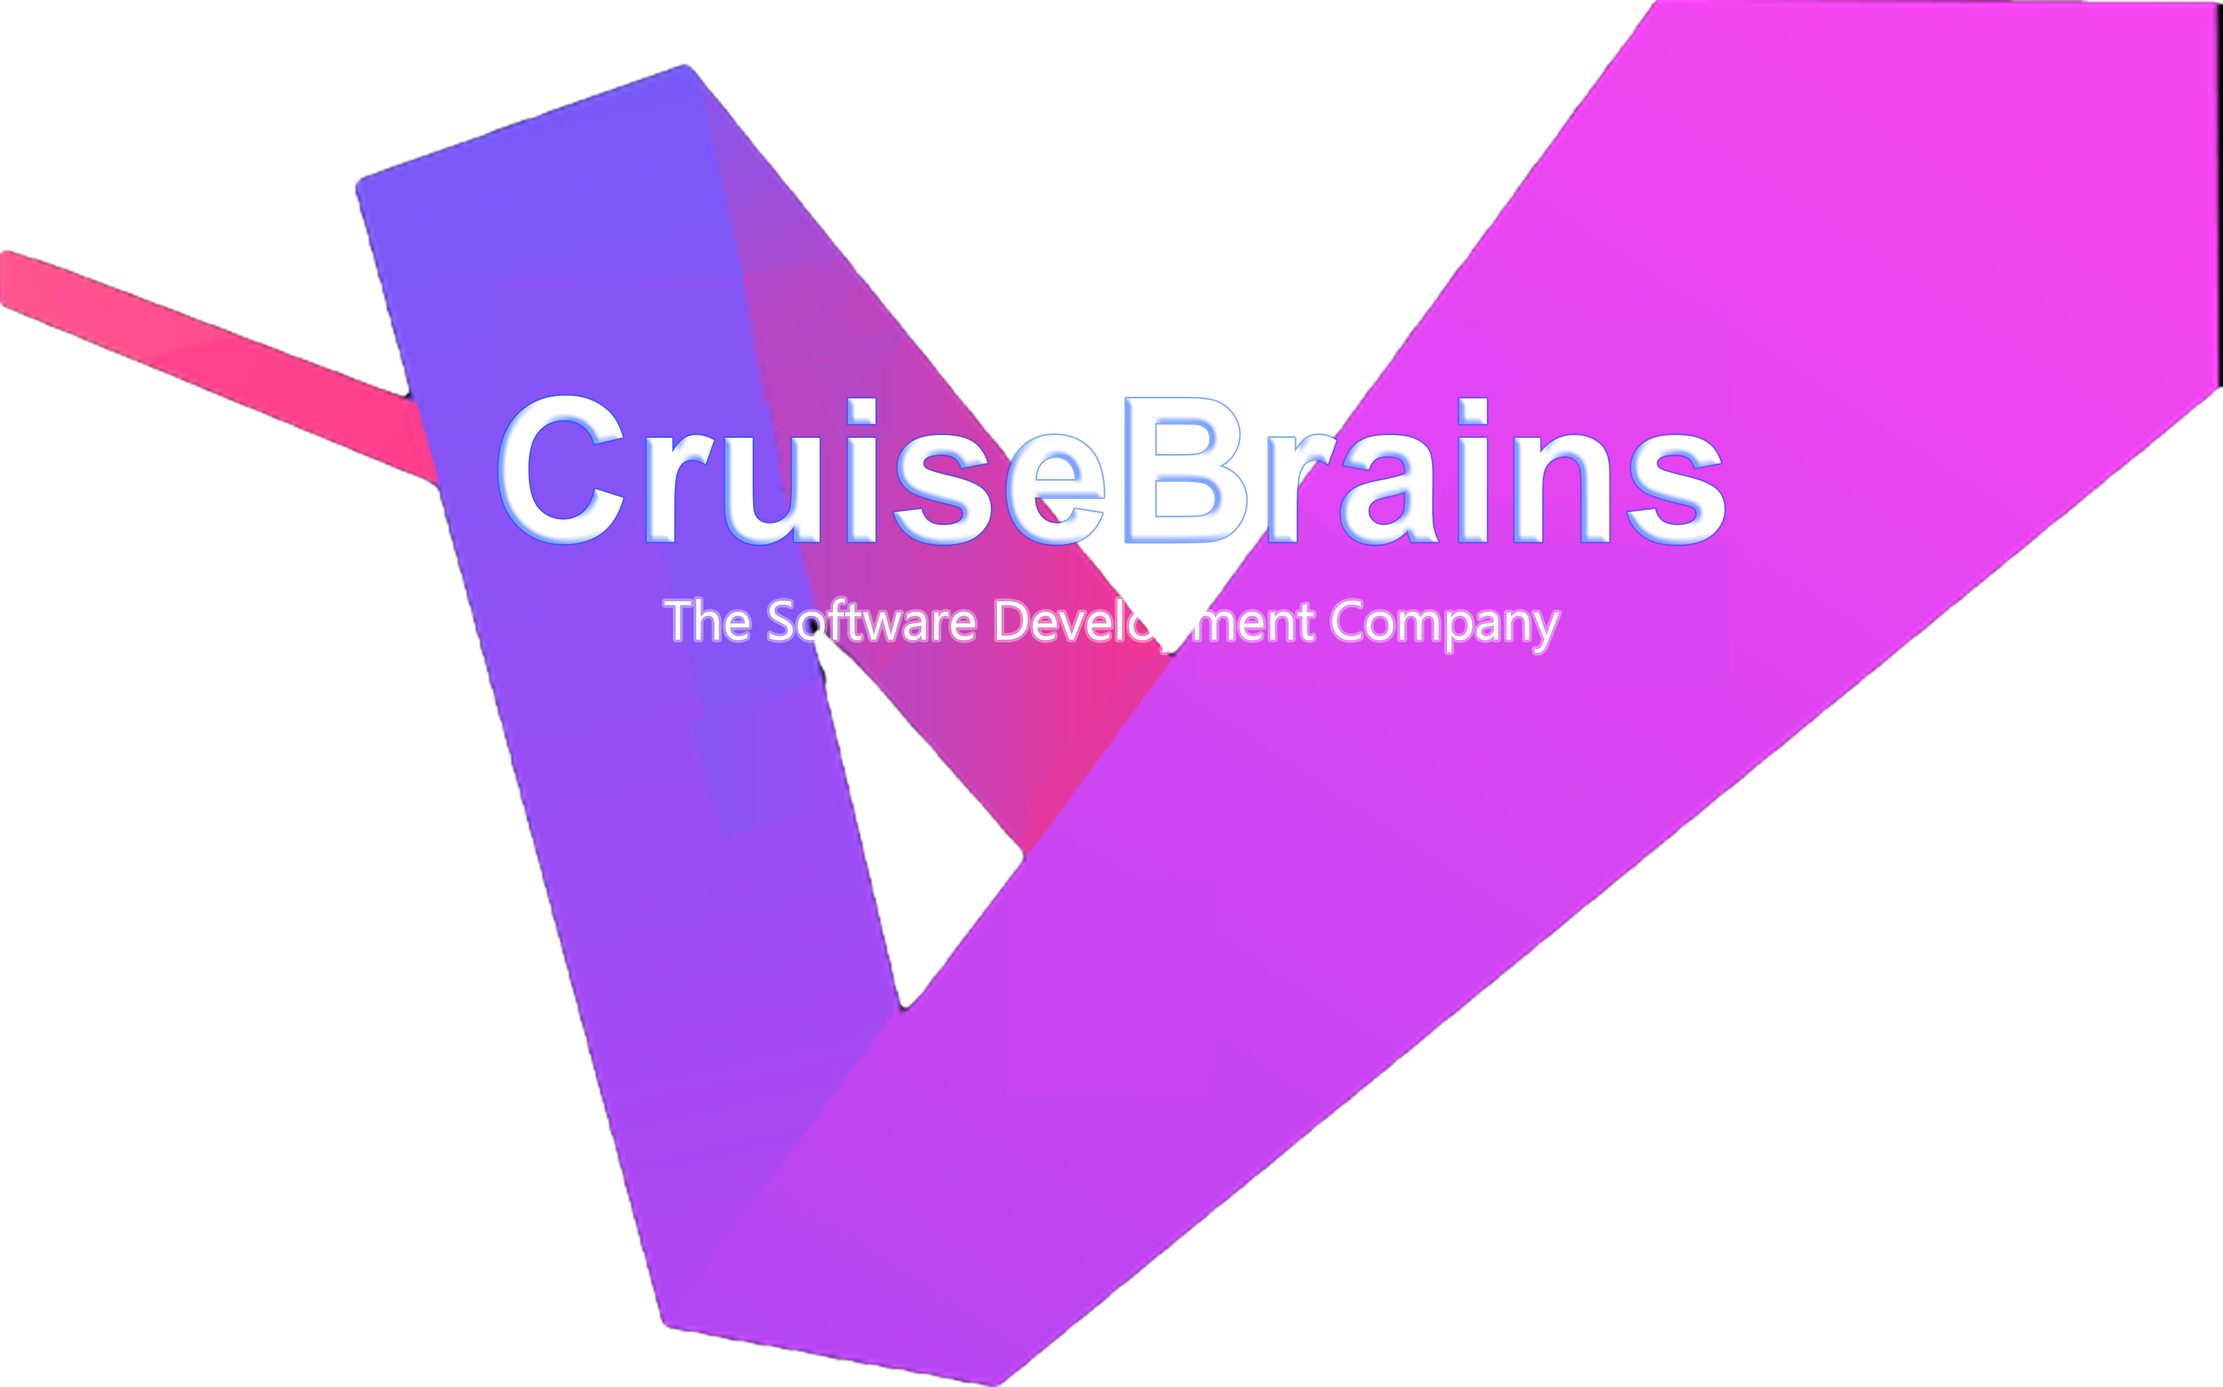
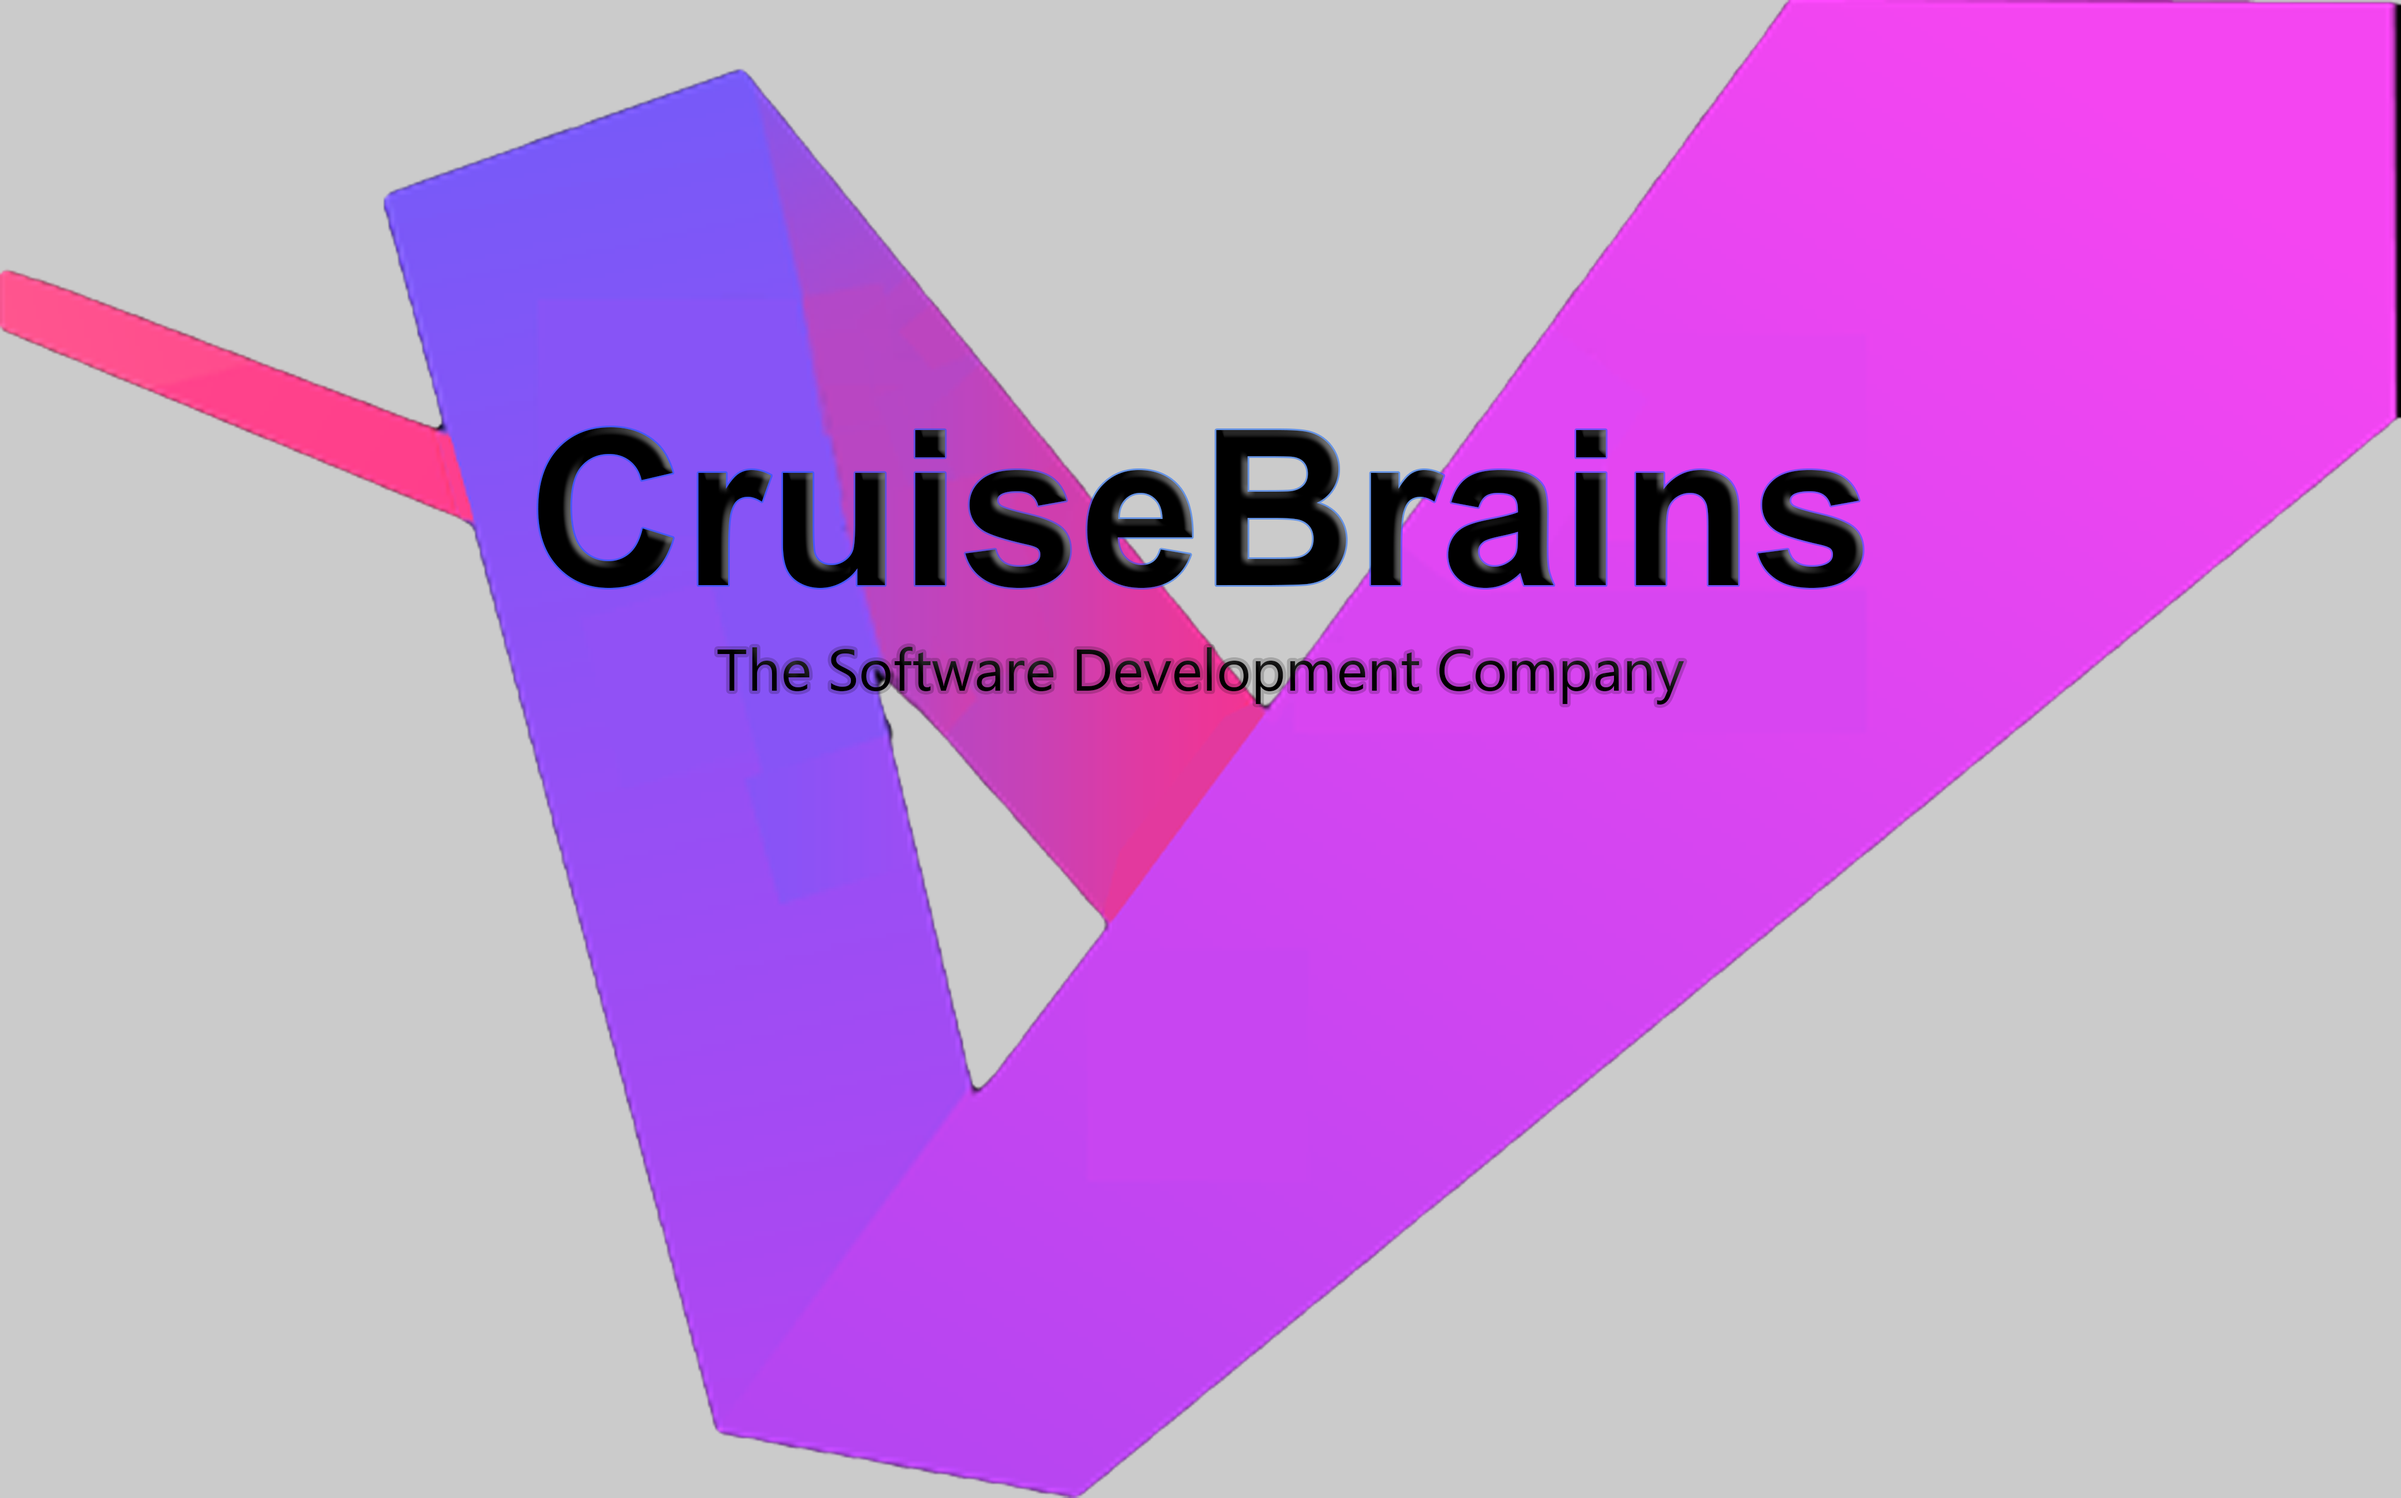
changes in darkomode

diff --git a/src/pages/index.jsx b/src/pages/index.jsx
@@ -6,6 +6,7 @@ import clsx from 'clsx'
 import { Button } from '@/components/Button'
 import { Card } from '@/components/Card'
 import { Container } from '@/components/Container'
+import cruiseBrains from '@/images/CruiseBrains.png'
 import {
   TwitterIcon,
   InstagramIcon,
@@ -44,8 +45,6 @@ function MailIcon(props) {
     </svg>
   )
 }
-
-
 
 function Service({ service }) {
   return (
@@ -97,8 +96,6 @@ function Contactus() {
   )
 }
 
-
-
 function Photos() {
   let rotations = ['rotate-2', '-rotate-2', 'rotate-2', 'rotate-2', '-rotate-2']
 
@@ -130,12 +127,8 @@ export default function Home({ services }) {
   return (
     <>
       <Head>
-        <title>
-          Cruise Brians - Software development company
-        </title>
-        <meta
-          name="description"
-        />
+        <title>Cruise Brians - Software development company</title>
+        <meta name="description" />
       </Head>
       <Container className="mt-9">
         <div className="max-w-2xl">
@@ -149,9 +142,13 @@ export default function Home({ services }) {
             is dedicated to delivering reliable and user-friendly software that
             meets the unique needs of each of our clients.
           </p>
-
+          <Image
+              src={cruiseBrains}
+              alt=""
+              sizes="(min-width: 640px) 18rem, 11rem"
+              className=" inset-0 h-full w-full object-cover"
+            />
           <br />
-
 
           <p className="text-base text-zinc-600 dark:text-zinc-400">
             We use the latest technologies and agile methodologies to ensure
@@ -168,37 +165,39 @@ export default function Home({ services }) {
             business thrive. We look forward to working with you!
           </p>
 
-          { <div className="mt-6 flex gap-6">
-            <SocialLink
-              href="https://twitter.com"
-              aria-label="Follow on Twitter"
-              icon={TwitterIcon}
-            />
-            <SocialLink
-              href="https://instagram.com"
-              aria-label="Follow on Instagram"
-              icon={InstagramIcon}
-            />
-            <SocialLink
-              href="https://github.com"
-              aria-label="Follow on GitHub"
-              icon={GitHubIcon}
-            />
-            <SocialLink
-              href="https://linkedin.com"
-              aria-label="Follow on LinkedIn"
-              icon={LinkedInIcon}
-            />
-          </div> }
+          {
+            <div className="mt-6 flex gap-6">
+              <SocialLink
+                href="https://twitter.com"
+                aria-label="Follow on Twitter"
+                icon={TwitterIcon}
+              />
+              <SocialLink
+                href="https://instagram.com"
+                aria-label="Follow on Instagram"
+                icon={InstagramIcon}
+              />
+              <SocialLink
+                href="https://github.com"
+                aria-label="Follow on GitHub"
+                icon={GitHubIcon}
+              />
+              <SocialLink
+                href="https://linkedin.com"
+                aria-label="Follow on LinkedIn"
+                icon={LinkedInIcon}
+              />
+            </div>
+          }
         </div>
       </Container>
       <Photos />
 
       <Container className="mt-24 md:mt-28">
-          <div className='text-5xl text-center text-zinc-600 dark:text-zinc-300 uppercase rounded-lg w-full py-2'>
-            <h1>Our Services</h1>
-          </div>
-        <div className="mx-auto grid max-w-xl grid-cols-1 gap-y-20 lg:max-w-none lg:grid-cols-2 mt-10">
+        <div className="w-full rounded-lg py-2 text-center text-5xl uppercase text-zinc-600 dark:text-zinc-300">
+          <h1>Our Services</h1>
+        </div>
+        <div className="mx-auto mt-10 grid max-w-xl grid-cols-1 gap-y-20 lg:max-w-none lg:grid-cols-2">
           <div className="flex flex-col gap-16">
             {services.map((service) => (
               <Service key={service.slug} service={service} />

diff --git a/src/components/Header.jsx b/src/components/Header.jsx
@@ -5,8 +5,7 @@ import { Popover, Transition } from '@headlessui/react'
 import clsx from 'clsx'
 
 import { Container } from '@/components/Container'
-import cruiseBrainsW from '@/images/CruiseBrainsw.png'
-import cruiseBrainsD from '@/images/CruiseBrains.png'
+import cruiseBrains from '@/images/CruiseBrains.png'
 import { Fragment, useEffect, useRef } from 'react'
 
 function CloseIcon(props) {
@@ -173,6 +172,11 @@ function DesktopNavigation(props) {
   )
 }
 
+function clamp( number, a, b, ) {
+  let min = Math.min(a, b)
+  let max = Math.max(a, b)
+  return Math.min(Math.max(number, min), max)
+}
 function ModeToggle() {
   function disableTransitionsTemporarily() {
     document.documentElement.classList.add('[&_*]:!transition-none')
@@ -183,18 +187,17 @@ function ModeToggle() {
 
   function toggleMode() {
     disableTransitionsTemporarily()
-    let darkModeMediaQuery = window.matchMedia('(prefers-color-scheme: dark)')
-    let isSystemDarkMode = darkModeMediaQuery.matches
-    let isDarkMode = document.documentElement.classList.toggle('dark')
+    var darkModeMediaQuery = window.matchMedia('(prefers-color-scheme: dark)')
+    var isSystemDarkMode = darkModeMediaQuery.matches
+    var isDarkMode = document.documentElement.classList.toggle('dark')
 
     if (isDarkMode === isSystemDarkMode) {
       delete window.localStorage.isDarkMode
     } else {
       window.localStorage.isDarkMode = isDarkMode
     }
-    console.log(isDarkMode)
+    Avatar(isDarkMode)
   }
-
 
   return (
     <button
@@ -209,66 +212,50 @@ function ModeToggle() {
   )
 }
 
-function clamp(number, a, b) {
-  let min = Math.min(a, b)
-  let max = Math.max(a, b)
-  return Math.min(Math.max(number, min), max)
-}
-
 function AvatarContainer({ className, ...props }) {
+  
   return (
     <div
-      className={clsx(
-        className,
-        'h-10 w-10 rounded-full bg-white/90 p-0.5 shadow-lg shadow-zinc-800/5 ring-1 ring-zinc-900/5 backdrop-blur dark:bg-zinc-800/90 dark:ring-white/10'
+    className={clsx(
+      className,
+      'h-10 w-10 rounded-full bg-white/90 p-0.5 shadow-lg shadow-zinc-800/5 ring-1 ring-zinc-900/5 backdrop-blur dark:bg-zinc-800/90 dark:ring-white/10'
       )}
       {...props}
-    />
-  )
-}
-
-function Avatar({
-  isDarkMode,
-  large = false,
-  className,
-  ...props
-}) 
-{
-
+      />
+      )
+    }
+    
+    function Avatar({
+      isDarkMode,
+      large = false,
+      className,
+      ...props
+    }) {
+  console.log(isDarkMode)
   return (
-    <Link
-      href="/"
-      aria-label="Home"
-      className={clsx(className, 'pointer-events-auto')}
-      {...props}
-    >
-       {isDarkMode ? (
-        <Image
-          src={cruiseBrainsD}
-          alt=""
-          sizes={large ? '4rem' : '2.25rem'}
-          className={clsx(
-            ' bg-zinc-100 object-cover dark:bg-zinc-800 rounded-full',
-            large ? 'h-16 w-16' : 'h-9 w-9'
-          )}
-          priority={true}
-        />
-      ) : (
-        <Image
-          src={cruiseBrainsW}
-          alt=""
-          sizes={large ? '4rem' : '2.25rem'}
-          className={clsx(
-            'rounded-full bg-zinc-100 object-cover dark:bg-zinc-800',
-            large ? 'h-16 w-16' : 'h-9 w-9'
-          )}
-          priority={true}
-        />
-        )}
-    </Link>
-
-)
-console.log(isDarkMode)
+    <>
+      
+        <Link
+          href="/"
+          aria-label="Home"
+          className={clsx(className, 'pointer-events-auto')}
+          {...props}
+        >
+          <Image
+            src={cruiseBrains}
+            alt=""
+            sizes={large ? '4rem' : '2.25rem'}
+            className={clsx(
+              ' rounded-full bg-zinc-100 object-cover dark:bg-zinc-800',
+              large ? 'h-16 w-16' : 'h-9 w-9'
+            )}
+            priority
+          />
+        </Link>
+      
+      
+    </>
+  )
 }
 
 export function Header() {

diff --git a/src/pages/projects.jsx b/src/pages/projects.jsx
@@ -23,7 +23,7 @@ const projects = [
     logo: callLink,
   },
   {
-    name: 'HelioStream',
+    name: 'Monitize Text',
     description:
       'A Laravel based SMS marketing application.',
     link: { href: 'https://monitizetext.com', label: 'Monitizetext.com' },
